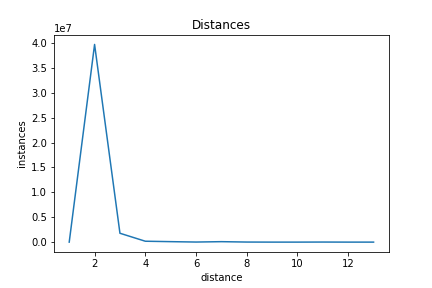
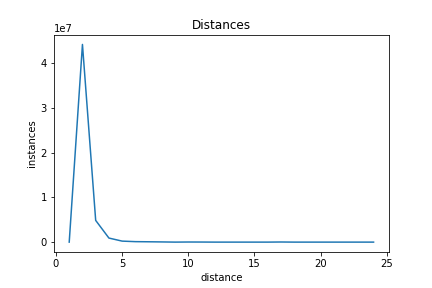
changes

diff --git a/main.py b/main.py
@@ -3,23 +3,24 @@
 
 
 #import 
-from pm4py.objects.log.importer.xes import factory as xes_factory
+
 from DataPreprocess import dataPreprocess, transform
 from outlierDetectionKNN import testKNNparameters
 from distanceEvaluation import writeToFile,plotDistanceDistribution
-from Distance import findAllDistances
+from Distance import calculateDistances
 
-
+from pm4py.objects.log.importer.xes import factory as xes_factory
 log=xes_factory.apply("BPI_Challenge_2012.xes")
-results,statsTimes=dataPreprocess(log)
-sequenceStandarized,timeStandarized=transform(results,statsTimes)
-distances=findAllDistances(sequenceStandarized,timeStandarized)
+
+dataVectors,statsTimes=dataPreprocess(log)
+dataVectorsStandarized=transform(dataVectors)
+distances=calculateDistances(dataVectorsStandarized)
 writeToFile(distances,"distances.txt")
 plotDistanceDistribution(distances,"Distances")
 R=[0.5,1,1.5,2,2.5,3]
 K=[20,50,100,200,500]
 print("Testing distance parameters")
-outliersPerParameter=[i for i in testKNNparameters(R,K,distances,log)]
+outliersPerParameter=[i for i in testKNNparameters(R,K,distances)]
 
 
 
@@ -40,3 +41,21 @@ dataSequence2,bag2=dataSequence(log2)
 weightedEdges=condactWeightedEdges(dataSequence2,bag2[1])
 outlierSequences,outlierEdges=outliers(weightedEdges,0.1,dataSequence)
         
+
+#def transform(dataVector):
+from distanceEvaluation import readFromFile
+distances=readFromFile("distances.txt")
+values=[]
+for i in range(len(distances)):
+    for j in range(len(distances)):
+        if i<j:
+            values.append(distances[i][j])
+del distances
+values=[round(i,5) for i in list(values)]
+
+
+      
+import matplotlib.pyplot as plt
+fig1, ax1 = plt.subplots()
+ax1.set_title('Basic Plot')
+ax1.boxplot(values)

diff --git a/KRParameters/testKRParameters.py b/KRParameters/testKRParameters.py
@@ -1,0 +1,28 @@
+#!/usr/bin/env python3
+# -*- coding: utf-8 -*-
+"""
+Created on Thu Nov  7 11:25:37 2019
+
+@author: mavroudo
+"""
+from DataPreprocess import dataPreprocess, transform
+from Distance import calculateDistances
+from pm4py.objects.log.importer.xes import factory as xes_factory
+log=xes_factory.apply("BPI_Challenge_2012.xes")
+
+dataVectors,statsTimes=dataPreprocess(log)
+dataVectorsStandarized=transform(dataVectors)
+print("calculating distances")
+distances=calculateDistances(dataVectorsStandarized)
+from distanceEvaluation import writeToFile
+print("writing to file")
+distances=writeToFile(distances,"distances.txt")
+from outlierDetectionKNN import testKNNparameters
+R=[i/10 for i in range(1,30,1)]
+K=[i for i in range(20,500,20)]
+print("Testing distance parameters")
+outliersPerParameter=[i for i in testKNNparameters(R,K,distances)]
+file=open("krParameters.txt","w")
+for outlier in outliersPerParameter:
+    file.write(str(outlier[0])+", "+str(outlier[1])+", "+str(outlier[2])+"\n")
+file.close()

diff --git a/testKRParameters.py b/testKRParameters.py
@@ -1,0 +1,28 @@
+#!/usr/bin/env python3
+# -*- coding: utf-8 -*-
+"""
+Created on Thu Nov  7 11:25:37 2019
+
+@author: mavroudo
+"""
+from DataPreprocess import dataPreprocess, transform
+from Distance import calculateDistances
+from pm4py.objects.log.importer.xes import factory as xes_factory
+log=xes_factory.apply("BPI_Challenge_2012.xes")
+
+dataVectors,statsTimes=dataPreprocess(log)
+dataVectorsStandarized=transform(dataVectors)
+print("calculating distances")
+distances=calculateDistances(dataVectorsStandarized)
+from distanceEvaluation import writeToFile
+print("writing to file")
+distances=writeToFile(distances,"distances.txt")
+from outlierDetectionKNN import testKNNparameters
+R=[i/10 for i in range(1,30,1)]
+K=[i for i in range(20,500,20)]
+print("Testing distance parameters")
+outliersPerParameter=[i for i in testKNNparameters(R,K,distances)]
+file=open("krParameters.txt","w")
+for outlier in outliersPerParameter:
+    file.write(str(outlier[0])+", "+str(outlier[1])+", "+str(outlier[2])+"\n")
+file.close()
